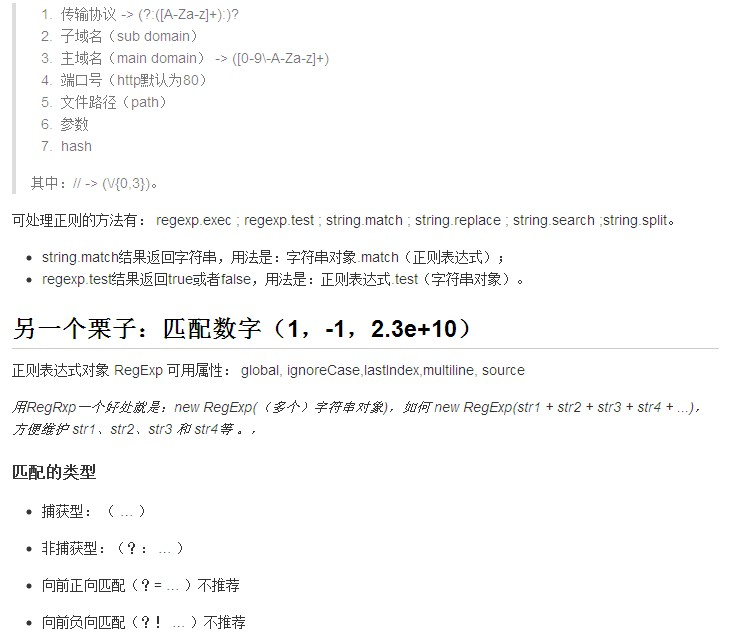
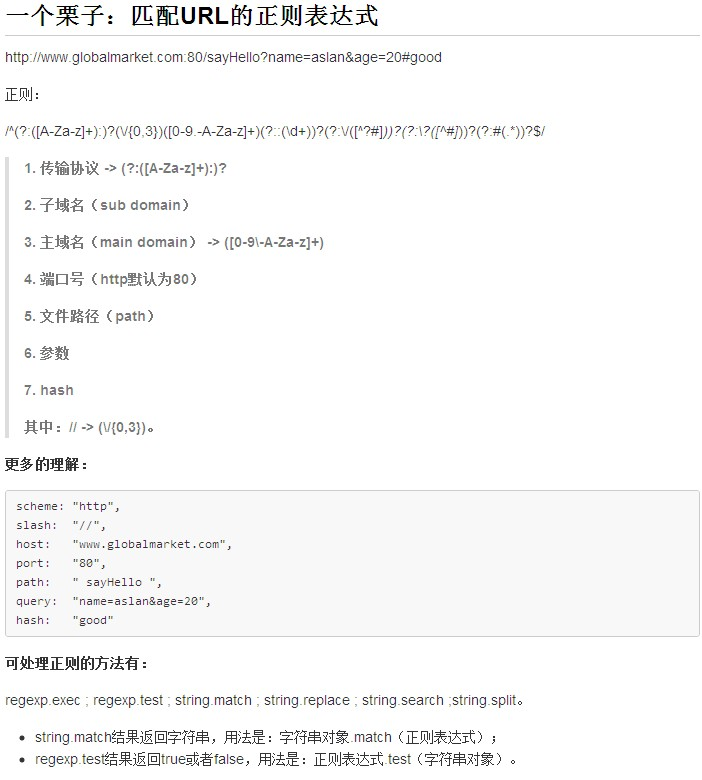
补充文章

diff --git a/_posts/前端分享会之正则表达式.md b/_posts/前端分享会之正则表达式.md
@@ -2,17 +2,53 @@
 
 http://www.globalmarket.com:80/sayHello?name=aslan&age=20#good
 
-> 1. 传输协议                ->  (?:([A-Za-z]+):)?
-2. 子域名（sub domain）        
-3. 主域名（main domain）     ->   ([0-9\\-A-Za-z]+)
-4. 端口号（http默认为80）
-5. 文件路径（path）
-6. 参数
-7. hash
+正则：
 
-> 其中：// -> (\/{0,3})。
 
-可处理正则的方法有：
+/^(?:([A-Za-z]+):)?(\/{0,3})([0-9.\-A-Za-z]+)(?::(\d+))?(?:\/([^?#]*))?(?:\?([^#]*))?(?:#(.*))?$/
+
+
+
+> **1. 传输协议                ->  (?:([A-Za-z]+):)?**
+
+
+> **2. 子域名（sub domain）** 
+
+    
+> **3. 主域名（main domain）     ->   ([0-9\\-A-Za-z]+)**
+
+
+
+
+> **4. 端口号（http默认为80）**
+
+
+
+> **5. 文件路径（path）**
+
+
+
+> **6. 参数**
+
+
+
+> **7. hash**
+
+
+
+> **其中：// -> (\/{0,3})。**
+
+**更多的理解：**
+
+    scheme:	"http", 
+    slash:	"//", 
+    host:	"www.globalmarket.com", 
+    port:	"80", 
+    path:	" sayHello ", 
+    query:	"name=aslan&age=20", 
+    hash:	"good"
+**可处理正则的方法有：**
+
 regexp.exec	; regexp.test ; string.match ; string.replace ;	string.search ;string.split。
 
 - string.match结果返回字符串，用法是：字符串对象.match（正则表达式）；
@@ -20,9 +56,28 @@ regexp.exec	; regexp.test ; string.match ; string.replace ;	string.search ;strin
 
 ## 另一个栗子：匹配数字（1，-1，2.3e+10） ##
 
-正则表达式对象 RegExp
-可用属性：
+    var reg = /^-?\d+(?:\.\d*)?(?:e[+\-]?\d+)?$/i;  
+    reg.test(123)			 true
+    reg.test("123a")		 false
+    reg.test("1.23e3")		 true
+    reg.test("123.34.5.4")	 false
+
+
+
+## 正则表达式对象 RegExp可用属性： ##
+
 global,	ignoreCase,lastIndex,multiline,	source
+
+    var r = /a/ig
+    　　, arr=[]; 
+    r.exec("1a34a6a8"); 
+    arr.push(r.lastIndex); 
+    r.exec("1a34a6a8"); 
+    arr.push(r.lastIndex); 
+    r.exec("1a34a6a8"); 
+    arr.push(r.lastIndex); 
+    console.log(arr)
+    [2, 5, 7]
 
 *用RegRxp一个好处就是：new RegExp(（多个）字符串对象)，如何 new RegExp(str1 + str2 + str3 + str4 + ...)，方便维护 str1、str2、str3 和 str4等 。，*
 
@@ -38,6 +93,16 @@ global,	ignoreCase,lastIndex,multiline,	source
 
 
 ## 还是一个栗子 ##
+
+    var reg = /(a)(?=b)/;
+    var txt = 'a';
+    reg.test(txt);
+    false
+
+    var reg = /(a)(?=b)/;
+    var txt = 'ab';
+    reg.test(txt);
+    true
 
 正则表达式的量词：
 

diff --git a/_posts/2013-08-20-前端分享会之正则表达式.md b/_posts/2013-08-20-前端分享会之正则表达式.md
@@ -19,6 +19,8 @@ http://www.globalmarket.com:80/sayHello?name=aslan&age=20#good
 
 [![regExp2](http://pigerla.com/assets/images/20130820/regExp2.jpg)]
 
+[![regExp2](http://pigerla.com/assets/images/20130820/regExp3.jpg)]
+
 
 
 
